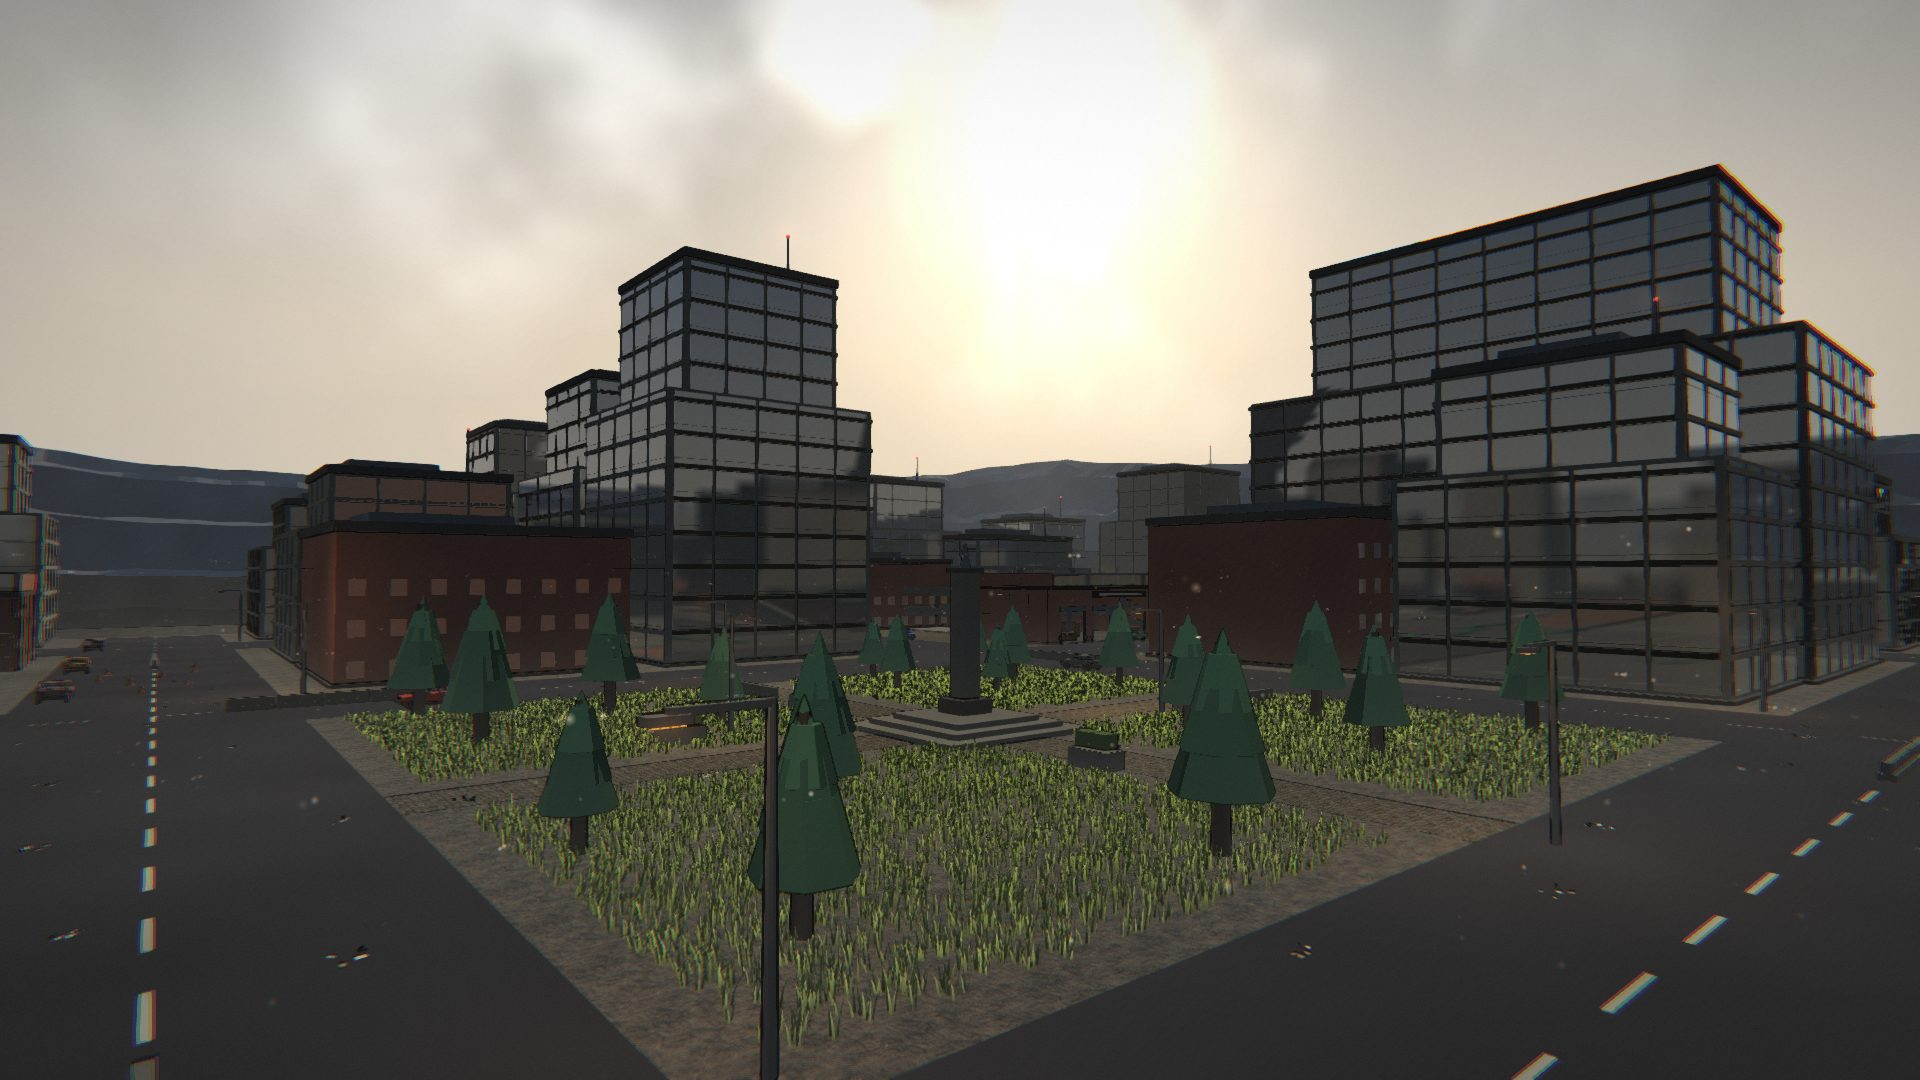
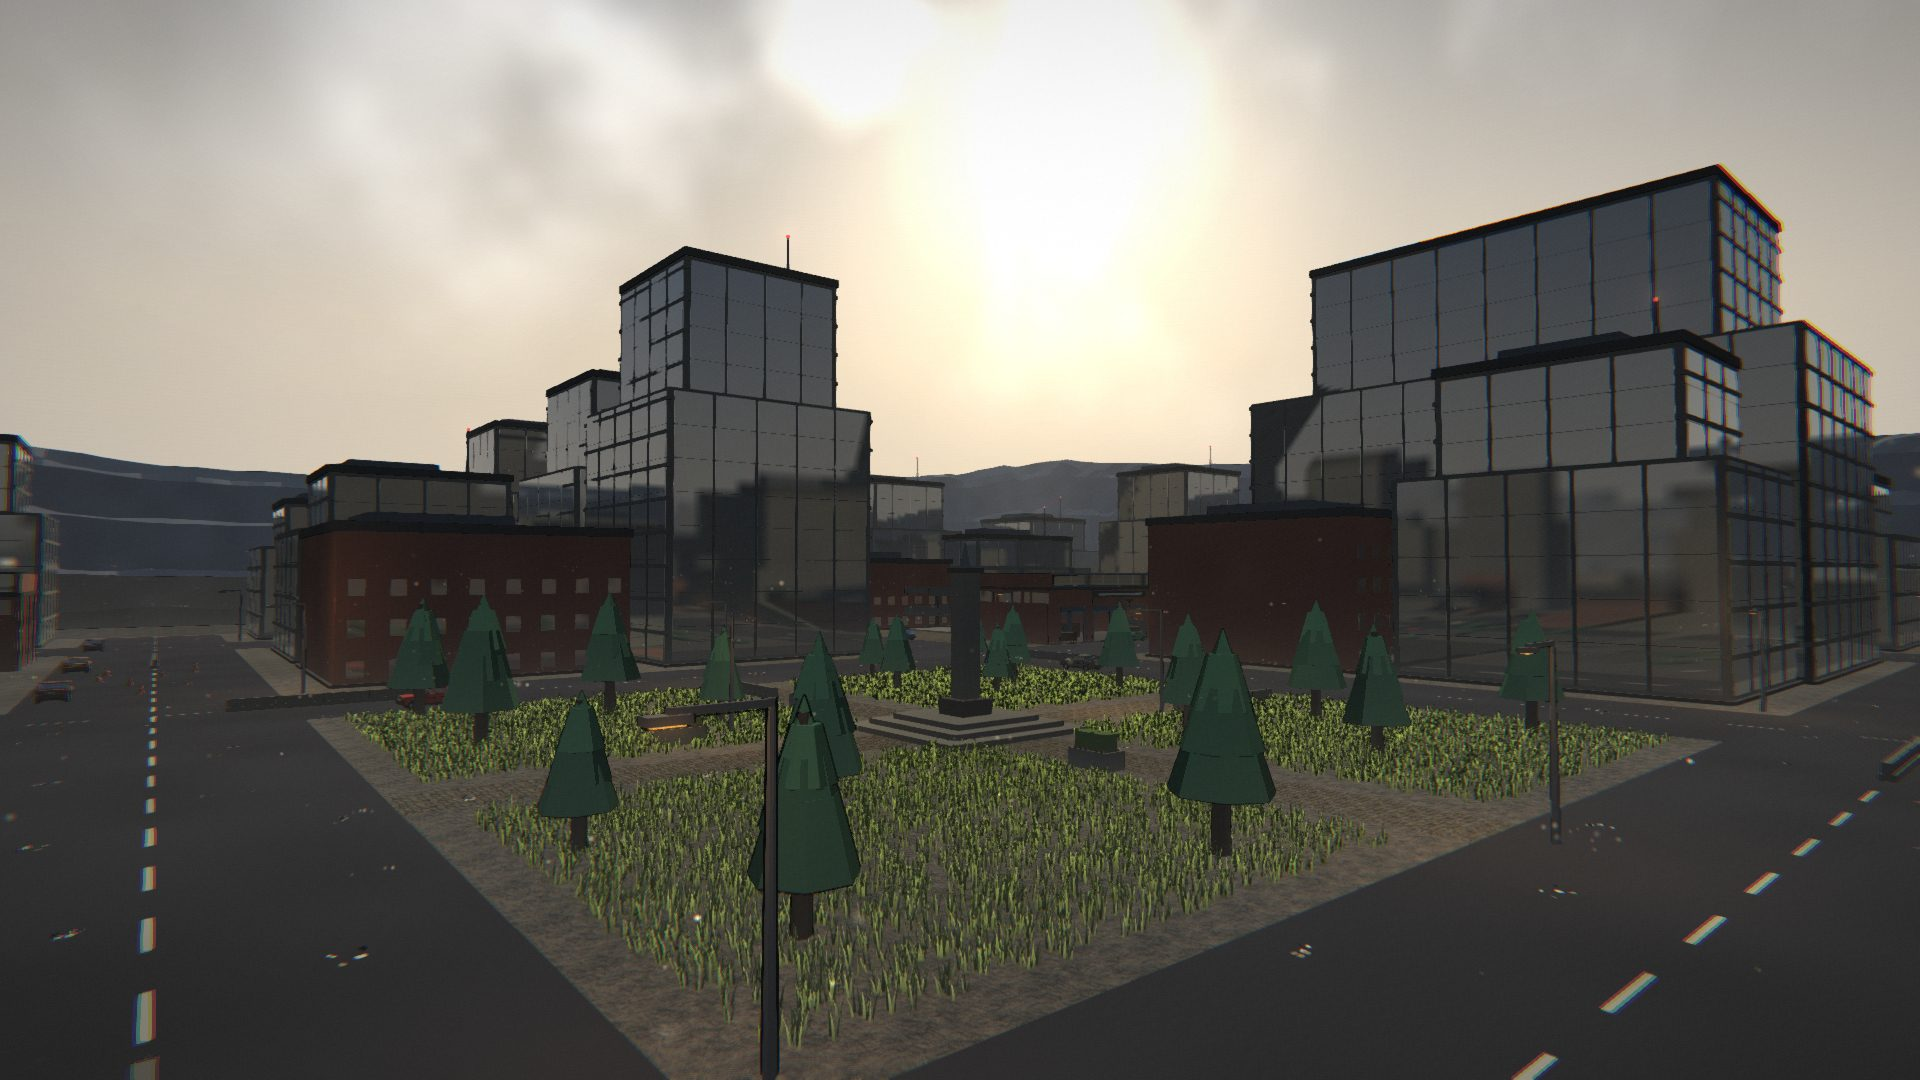
give the shadow map a receiver depth the engine agrees with, and take the rim light off the static world — two separate bugs behind one report, and BOTH of them drew a pool of shade that travelled with the player.
**The first is a NDC convention carried through the WebGPU migration verbatim.** `shadowVisibility` computed the receiver's depth as `(clip.z + 1) * 0.5`, which is correct under WebGL's [-1, 1] depth and wrong under WebGPU's, where `engine.isNDCHalfZRange` is true and a clip-space z is ALREADY in [0, 1]. `DirectionalLight.getDepthMinZ/MaxZ` return 0 and 1 there, so Babylon's own `depthValuesSM` is (0, 1) and the caster metric its shadow-map shader writes is `(position.z + 0) / 1` — the raw clip z. The receiver has to compare against exactly that. Measured on Sarab: a fragment on the focus plane sits at z 0.5149 and was tested as 0.7574 against a caster depth of 0.5149, so **EVERY texel inside the window failed the test**. The failure did not look like a shadow bug, which is why it stood since `e4047d8`: the depth map settled nothing, no bias could reach it — the error is `(1 - z) / 2`, half the depth range at the near plane and zero only at the far one — and what a player saw was the window's edge drawn as a hard line between everything shadowed and everything lit, because the function returns 1.0 outside. It read as art direction on the night maps and was unmissable on Sarab, where the ground is bright sand and the window is 150 m of it. **The shipped bias is left alone and is now doing real work**: swept on the worst case (Coldharbour's 24-degree sun, grazing along the azimuth), `bias: 0` puts visible acne on the tree canopies and the shipped 0.0035 / `normalBias` 0.06
[…]

diff --git a/src/shaders/CelShader.ts b/src/shaders/CelShader.ts
@@ -716,6 +716,36 @@ fn main(input: FragmentInputs) -> FragmentOutputs {
   // 5.0 m against 0.263 at 5.6 m, a 28% step across one hard circle. A floor has
   // no silhouette to catch, so it gets no rim.
   //
+  //
+  // **The tilt gate is HALF the rule, and the half that was found first.** The
+  // sentence above is true of EVERY plane and not only of the floor: for a wall
+  // at perpendicular distance p from the eye, dot(viewDir, n) is p/dist, the
+  // 0.72 step is crossed at dist = 3.57p, and the locus of that on the wall is
+  // a CIRCLE of radius 3.43p about the point nearest the eye. So the same
+  // camera-locked disc the floor gate exists to kill was still being drawn on
+  // every large flat wall in the game, and it slid with the player exactly as
+  // the floor one did: standing 3 m off a wall put a 10 m circle on it, and
+  // looking along a building's flank from a hull put the arc halfway down the
+  // face. It reads as a shadow with nothing casting it.
+  //
+  // **There is no fragment-local signal that separates the two cases**, which
+  // is why this is an exclusion rather than a better test. A limb's grazing
+  // facet and a wall's far corner produce the same dot() and the same distance;
+  // curvature would separate them and there is none to read, because the
+  // shading is FACETED and a normal is constant across a facet by construction.
+  //
+  // So the second gate is vBaked.y, the world marker the variation noise
+  // above already keys on: 1 on baked map geometry and 0 on the rigs, the
+  // vehicles, the viewmodel and every effect mesh. A rim light separates a
+  // SHAPE from its background, and a merged map block IS the background — the
+  // world's edges are drawn by the outline ink, which is per-mesh, thinned with
+  // distance and faded into the fog, and never needed this. What is left is the
+  // case the effect was raised for on the bright maps: a BODY, a vehicle or the
+  // weapon in your hands standing against haze very nearly its own colour.
+  //
+  // The tilt gate stays, and is not made redundant by it: it is what keeps the
+  // near-level top faces of a rig or a hull deck out, and it is the thing that
+  // has to hold if anyone ever gives the world its rim back.
   // The gate is on tilt, not on distance, because distance is the symptom. Zero
   // within 8 deg of level (every road, deck, terrace and the flat majority of
   // the heightfield), full past 26 deg — clear of the shallowest roof pitch in
@@ -725,7 +755,9 @@ fn main(input: FragmentInputs) -> FragmentOutputs {
   let viewDir = normalize(uniforms.camPos - fragmentInputs.vPosW);
   let rim = 1.0 - max(dot(viewDir, n), 0.0);
   col += base * uniforms.rimColor
-    * step(0.72, rim) * (1.0 - smoothstep(0.90, 0.99, level));
+    * step(0.72, rim)
+    * (1.0 - smoothstep(0.90, 0.99, level))
+    * (1.0 - step(0.5, fragmentInputs.vBaked.y));
 
   // Toon specular: Blinn half-vector against the key light, quantized into
   // two hard bands (bright core + faint halo) and gated by the same shadow

diff --git a/src/shaders/wgsl/includes.ts b/src/shaders/wgsl/includes.ts
@@ -128,8 +128,26 @@ register(
   "celShadow",
   `
 // Stepped directional shadows. lightMatrix is the ShadowGenerator's
-// view*projection (no [0,1] bias baked in — the UV/depth remap below mirrors
-// Babylon's own computeShadow: uv = clip.xy*0.5+0.5, depth = (clip.z+1)*0.5).
+// view*projection with no [0,1] bias baked in, so the XY remap below is the
+// usual uv = clip.xy*0.5+0.5.
+//
+// **The DEPTH is not remapped at all, and that is a WebGPU fact rather than a
+// choice.** Under WebGPU engine.isNDCHalfZRange is true, so a clip-space z is
+// ALREADY in [0, 1] — and DirectionalLight.getDepthMinZ/MaxZ return 0 and 1
+// there, which makes Babylon's own depthValuesSM (0, 1) and its caster metric
+// (position.z + 0) / 1 the raw clip z. The receiver has to compare against
+// exactly that, so depth here is sc.z and the range gate is [0, 1].
+//
+// **This carried the GLSL form through the WebGPU migration** — (clip.z + 1)
+// * 0.5, which is correct under WebGL's [-1, 1] depth — and what it cost is
+// worth writing down, because the failure did not look like a shadow bug. A
+// receiver at the focus plane sits at z ~ 0.51 and was compared as 0.76
+// against a caster depth of 0.51, so EVERY texel inside the window failed the
+// test: the depth map decided nothing, the window's edge became a hard line
+// between all-shadowed and all-lit (this function returns 1.0 outside it), and
+// what a player saw was a pool of shade travelling with them. No bias papers
+// over it — the error is (1 - z) / 2, half the depth range at the near plane,
+// and it reaches zero only at the far one.
 uniform lightMatrix: mat4x4f;
 var shadowMapSampler: sampler;
 var shadowMap: texture_2d<f32>;
@@ -177,8 +195,8 @@ fn shadowVisibility(n: vec3f, posW: vec3f) -> f32 {
   let sc = sc4.xyz / sc4.w;
   let uv = sc.xy * 0.5 + 0.5;
   if (uv.x < 0.0 || uv.x > 1.0 || uv.y < 0.0 || uv.y > 1.0) { return 1.0; }
-  if (sc.z < -1.0 || sc.z > 1.0) { return 1.0; }
-  let depth = (sc.z + 1.0) * 0.5 - uniforms.shadowParams.x;
+  if (sc.z < 0.0 || sc.z > 1.0) { return 1.0; }
+  let depth = sc.z - uniforms.shadowParams.x;
 
   let a = fract(sin(dot(fragmentInputs.position.xy, vec2f(12.9898, 78.233))) * 43758.5453)
     * 6.2831853;

diff --git a/src/world/sarab/environment.ts b/src/world/sarab/environment.ts
@@ -189,11 +189,19 @@ export const SarabEnvironment: EnvironmentSpec = {
     skyLightIntensity: 0.34,
     /**
      * Raised from 0.1, and on this map it is a legibility term rather than a
-     * look. The rim is gated off near-level surfaces (`CelShader`), so it
-     * reaches silhouettes and only silhouettes: a body, a parapet or a wall
-     * corner standing against 560 m of haze very nearly its own colour. That
-     * is the case this map has more of than any other in the tree, and 0.1 was
-     * not enough of an edge to find one by.
+     * look. The rim reaches a BODY, a vehicle and the weapon in your hands
+     * standing against 560 m of haze very nearly its own colour. That is the
+     * case this map has more of than any other in the tree, and 0.1 was not
+     * enough of an edge to find one by.
+     *
+     * **It no longer reaches a parapet or a wall corner, and that is the
+     * price of the gate rather than an oversight.** `CelShader` excludes the
+     * static world outright now: on a plane the grazing angle the rim keys on
+     * is nothing but distance from the eye, so a large flat wall wore a
+     * camera-locked disc that slid with the player and read as a shadow with
+     * nothing casting it. This map is where it was found, because a desert
+     * town is mostly large flat wall. The world's edges are the outline ink's
+     * to draw.
      */
     rimColor: "#fff0cc",
     rimIntensity: 0.18,

diff --git a/docs/rendering.md b/docs/rendering.md
@@ -958,6 +958,29 @@ A window's frame is drawn by the mullion, the collar and the reveal, all of whic
 are geometry with ink of their own. Because nothing ever outlines a pane, glass
 is also the one variant that owes `outlineInkFor`'s regex nothing.
 
+**The receiver's depth is the raw clip z, and getting that wrong is invisible
+as a shadow bug.** Under WebGPU `engine.isNDCHalfZRange` is true, so a
+clip-space z is already in [0, 1]; `DirectionalLight.getDepthMinZ/MaxZ` return
+0 and 1 there, which makes Babylon's `depthValuesSM` (0, 1) and the caster
+metric its shadow-map shader writes `(position.z + 0) / 1` — the raw clip z.
+`shadowVisibility` compares against exactly that and its range gate is [0, 1].
+The GLSL form, `(clip.z + 1) * 0.5`, is correct under WebGL's [-1, 1] depth and
+was carried through the WebGPU migration verbatim, where it is an error of
+`(1 - z) / 2` — half the depth range at the near plane, zero only at the far
+one. What it did was decide EVERY texel inside the window against the receiver:
+a fragment on the focus plane sits at z ~ 0.51 and was tested as 0.76 against a
+caster depth of 0.51. So the depth map settled nothing, no bias could reach it,
+and what a player saw was not a missing shadow but a POOL OF SHADE that
+travelled with them — the window's edge drawn as a hard line between everything
+shadowed and everything lit, because the function returns 1.0 outside it. It
+read as an art direction on the night maps and was unmissable on Sarab, where
+the ground is bright sand and the window is 150 m of it.
+
+**The third row of the table below was measured under that bug**, so it says how
+much of each frame was inside the window rather than how much of it was in
+shadow; the first two rows are a kernel-vs-no-kernel difference and are
+unaffected. Re-take the row before quoting it.
+
 **The shadow lookup is FOUR taps, and four is a ceiling rather than a budget.**
 One tap put the depth map's own grid on screen — at 110 m over 2048 texels an
 edge climbs in 5.4 cm steps — so the kernel spans exactly one texel, which is
@@ -1618,6 +1641,27 @@ vantages come back to four decimal places.
   distance is only the symptom, and it reads the **facet** normal rather than the
   bumped one — off the bumped normal, individual setts flick it on and off. It costs
   the rim on the near-horizontal top faces of a rig, which were never silhouettes.
+- **The tilt gate is half the rule, and the other half is the WORLD MARKER.** The
+  sentence above is true of every plane, not only the floor: for a wall at
+  perpendicular distance `p` from the eye, `dot(viewDir, n)` is `p/dist`, the 0.72
+  step is crossed at `dist = 3.57p`, and the locus of that on the wall is a CIRCLE
+  of radius `3.43p` about the point nearest the eye. So the same camera-locked disc
+  went on being drawn on every large flat WALL: standing 3 m off one put a 10 m
+  circle on it, and looking along a building's flank from a hull put the arc halfway
+  down the face, sliding with the player and reading as a shadow with nothing casting
+  it. **There is no fragment-local test that separates a limb's grazing facet from a
+  wall's far corner** — they produce the same `dot()` at the same distance, curvature
+  would separate them, and there is none to read because the shading is faceted and a
+  normal is constant across a facet by construction. So the second gate is an
+  exclusion: `vBaked.y`, the same world marker the variation noise keys on, which is
+  1 on baked map geometry and 0 on the rigs, the vehicles, the viewmodel and every
+  effect mesh. A rim separates a shape from its background and a merged map block IS
+  the background; the world's edges are the **outline ink's** job, which is per-mesh,
+  distance-thinned and fog-faded and never needed this. What is left is what the
+  bright maps raised `rimIntensity` for: a body, a vehicle or the weapon in your hands
+  against haze very nearly its own colour. The tilt gate stays and is not redundant —
+  it is what keeps a rig's top faces and a hull's deck out, and it is what has to hold
+  if the world is ever given its rim back.
 - Rendering group **1 is the viewmodel's**, for the depth clear Babylon does between
   groups. Putting world geometry in group 1 makes it draw through everything. The
   **sky is in it too** (`Sky`'s constructor turns the depth clear back off so the
